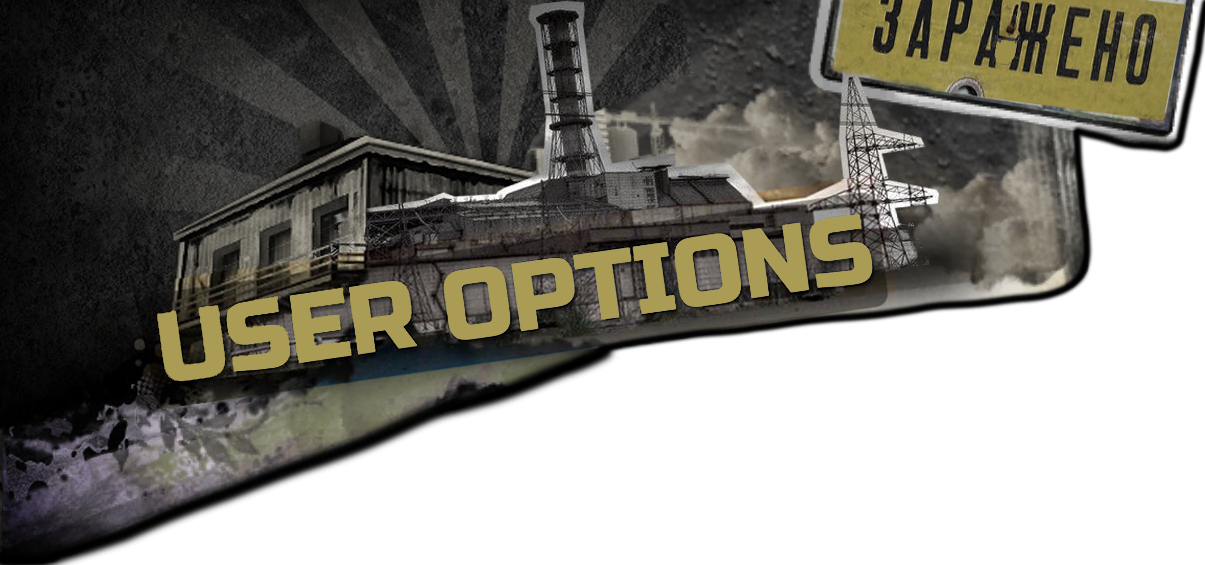
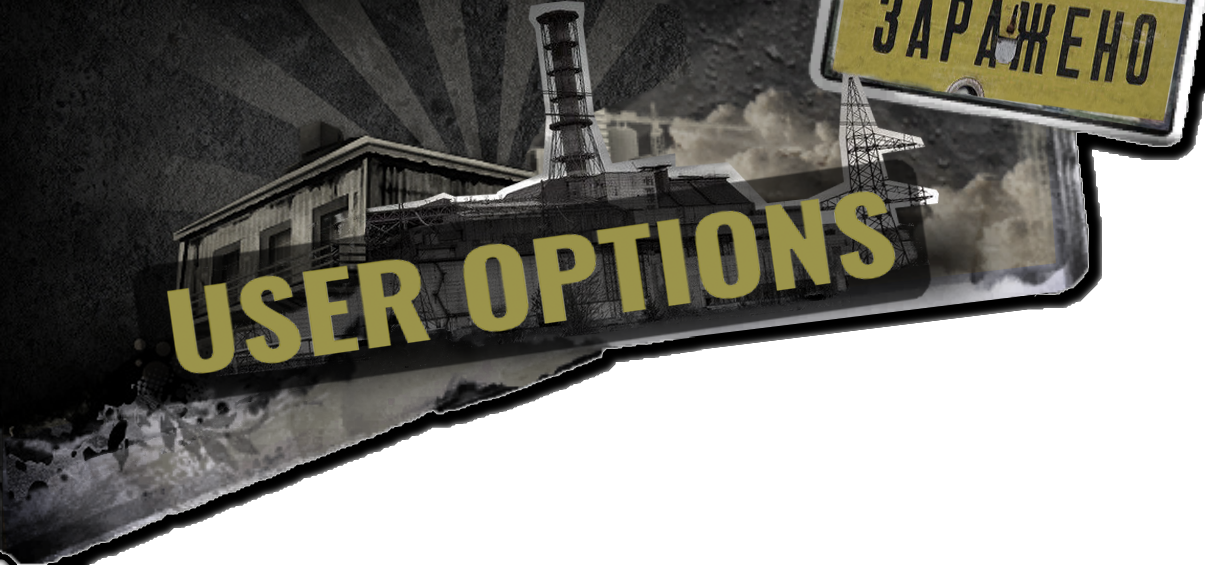
style: STYLING

Changed region(s): [[0.0, 0.0, 1.0, 1.0], [0.829, 0.0602, 0.8598, 0.1204]]

diff --git a/src/modules/menu/index.tsx b/src/modules/menu/index.tsx
@@ -5,6 +5,8 @@ import TextImg from './../../images/text.png'
 import MaskImage3 from './../../images/mask.png'
 import MaskImage2 from './../../images/mask2.png'
 import MaskImage from './../../images/mask3.png'
+import Photo from './../../images/photo.png'
+import Stamp from './../../images/stamp.png'
 
 interface MessageProps {
     message: string;
@@ -52,33 +54,42 @@ function Menu(props: MessageProps): ReactElement {
                 <img className='menuBackground' src={MenuImg} alt='menu' />
             </div>
             <div className='grid-nav second'>
-                <div className={'menuElement ' + (active[0] && 'active')} onClick={() => {
+                <div className={'menuElement ' + (active[0] ? 'active' : '')} onClick={() => {
                     setActive([true,false,false])
                     }}>
-                    <img src={MaskImage} className={'menuImg ' + (active[0] && 'activeImg')} alt='text mask' />
-                    <p className={'textMenuElement ' + (active[0] && 'activeText')}>PROFILE</p>
+                    <img src={MaskImage} className={'menuImg ' + (active[0] ? 'activeImg' : '')} alt='text mask' />
+                    <p className={'textMenuElement ' + (active[0] ? 'activeText' : '')}>PROFILE</p>
                 </div>
-                <div className={'menuElement ' + (active[1] && 'active')} onClick={() => {
+                <div className={'menuElement ' + (active[1] ? 'active' : '')} onClick={() => {
                     setActive([false,true,false])
                     }}>
-                    <img src={MaskImage2} className={'menuImg ' + (active[1] && 'activeImg')} alt='text mask' />
-                    <p className={'textMenuElement ' + (active[1] && 'activeText')}>SUMMARY</p>
+                    <img src={MaskImage2} className={'menuImg ' + (active[1] ? 'activeImg' : '')} alt='text mask' />
+                    <p className={'textMenuElement ' + (active[1] ? 'activeText' : '')}>SUMMARY</p>
                 </div>
-                <div className={'menuElement ' + (active[2] && 'active')} onClick={() => {
+                <div className={'menuElement ' + (active[2] ? 'active' : '')} onClick={() => {
                     setActive([false,false,true])
                     }}>
-                    <img src={MaskImage3} className={'menuImg ' + (active[2] && 'activeImg')} alt='text mask' />
-                    <p className={'textMenuElement ' + (active[2] && 'activeText')}>ABOUT ME</p>
+                    <img src={MaskImage3} className={'menuImg ' + (active[2] ? 'activeImg' : '')} alt='text mask' />
+                    <p className={'textMenuElement ' + (active[2] ? 'activeText' : '')}>ABOUT ME</p>
                 </div>
             </div>
 
-            <div className='grid-desc profile'>
+            <div className={'grid-desc profile ' + (active[0] ? 'displayTrue' : '')}>
+                <img className='textBackground' src={TextImg} alt='menu' />
+                <div className='profileContainer'> 
+                    <div className='profilePhoto'><img className='userPhoto' src={Photo} alt='user'/></div>
+                    <div className='profileContacts'> B</div>
+                </div>
+                <div className='profileContainerStamp'> 
+                    <div className='profileStamp'><img className='stampPhoto' src={Stamp} alt='stamp'/></div>
+                </div>
+            </div>
+            <div className={'grid-desc summary ' + (active[1] ? 'displayTrue' : '')}>
+                B
                 <img className='textBackground' src={TextImg} alt='menu' />
             </div>
-            <div className='grid-desc summary'>
-                <img className='textBackground' src={TextImg} alt='menu' />
-            </div>
-            <div className='grid-desc about-me'>
+            <div className={'grid-desc about-me ' + (active[2] ? 'displayTrue' : '')}>
+                C
                 <img className='textBackground' src={TextImg} alt='menu' />
             </div>
         </div>

diff --git a/src/modules/menu/styles.css b/src/modules/menu/styles.css
@@ -1,12 +1,15 @@
-@import url('https://fonts.googleapis.com/css2?family=Montserrat+Alternates:wght@200;300;400;500;600;700;800&family=Russo+One&display=swap');
+
 
 .module-contact-container {
     position: relative;
     display: grid;
-    grid-template-columns: 1fr 1fr 1fr 1fr 1fr;
+    grid-template-columns: repeat(5, 1fr);
     grid-template-areas: "nav nav desc desc desc";
     top: 28%;
     height: 55%;
+    max-width: 1500px;
+    left: 50%;
+    transform: translate(-50%, 0);
 }
 
 .grid-nav {
@@ -18,6 +21,7 @@
     width: 100%;
     margin-top: 10%;
 }
+
 .menuImg {
     width: 100%;
     max-height: 90%;
@@ -26,41 +30,48 @@
     border-radius: 5px;
     z-index: -1;
 }
-.second {  
+
+.second {
     display: flex;
     flex-direction: column;
     flex-wrap: nowrap;
     justify-content: center;
 }
+
 .menuElement {
-    height: 18%; 
+    height: 18%;
     width: 85%;
     transition: height 0.5s, width 0.5s, font-size 0.5s;
     width: 80%;
     margin-left: 7%;
     position: relative;
     user-select: none;
-    font-family: 'Russo One', sans-serif;
+    font-weight: 900;
+    font-family: 'Oswald', sans-serif;
 }
+
 .menuElement:hover {
     height: 30%;
     width: 88%;
     font-size: 3rem !important;
 }
+
 .textMenuElement {
     width: 100%;
     margin: 0;
-    font-size: 2rem;
+    font-size: 1.5rem;
     text-align: left;
     margin-left: 10%;
     filter: invert(59%) sepia(33%) saturate(679%) hue-rotate(12deg) brightness(88%) contrast(83%);
     max-height: 90%;
 }
+
 .active {
     height: 30%;
     width: 88%;
     /* color: rgba(159, 142, 65, 1) */
 }
+
 .activeImg {
     filter: invert(59%) sepia(33%) saturate(679%) hue-rotate(12deg) brightness(88%) contrast(83%);
 }
@@ -83,10 +94,69 @@
 .textBackground {
     width: 100%;
     height: 100%;
+    position: absolute;
+    left: 0;
+    z-index: -1;
 }
 
 .grid-desc {
     grid-area: desc;
+    display: none;
+    position: relative;
     z-index: 4;
     padding: 0 1%;
+}
+
+.displayTrue {
+    display: unset;
+}
+
+.profileContainer, .profileContainerStamp {
+    width: 85%;
+    height: 80%;
+    display: grid;
+    grid-template-columns: repeat(6, 1fr);
+    grid-template-rows: repeat(3, 1fr);
+    top: 10%;
+    left: 10%;
+    position: absolute;
+    grid-template-areas: "photo photo info info info info"
+        "photo photo info info info info"
+        "emp emp info info info info";
+}
+.profileContainerStamp { 
+    grid-template-columns: repeat(8, 1fr);
+    grid-template-rows: repeat(7, 1fr);
+    grid-template-areas: "emp1 emp1 emp1 emp emp emp emp emp"
+        "emp1 emp1 emp1 emp emp emp emp emp"
+        "emp1 emp1 emp1 emp emp emp emp emp"
+        "emp4 stamp stamp emp emp emp emp emp"
+        "emp4 stamp stamp emp emp emp emp emp"
+        "emp4 stamp stamp emp emp emp emp emp"
+        "emp4 emp3 emp3 emp emp emp emp emp";
+}
+.profileStamp {
+    grid-area: stamp;
+    transform: rotate(10deg);
+    opacity: 0.8;
+}
+
+.profilePhoto {
+    grid-area: photo;
+    position: relative;
+}
+
+.userPhoto, .stampPhoto{
+    position: absolute;
+    max-width: 100%;
+    max-height: 100%;
+    left: 0;
+    top: 0;
+    transform: rotate(3deg);
+}
+.profileContacts {
+    grid-area: info;
+    background-color: rgba(60, 56, 56, 0.5);
+    border-radius: 1rem;
+    transform: rotate(0deg);
 }

diff --git a/src/index.css b/src/index.css
@@ -1,3 +1,5 @@
+@import url('https://fonts.googleapis.com/css2?family=Montserrat+Alternates:wght@400;500;600;700;800;900&family=Oswald:wght@400;500;600;700&family=Russo+One&display=swap');
+
 body {
   margin: 0;
   font-family: -apple-system, BlinkMacSystemFont, 'Segoe UI', 'Roboto', 'Oxygen',

diff --git a/src/App.css b/src/App.css
@@ -1,9 +1,9 @@
-@import url('https://fonts.googleapis.com/css2?family=Montserrat+Alternates:wght@200;300;400;500;600;700;800&family=Russo+One&display=swap');
 .App, #root {
   text-align: center;
   width: 100%;
   height: 100%;
   margin:0;
+  user-select: none;
 }
 
 .App-logo {
